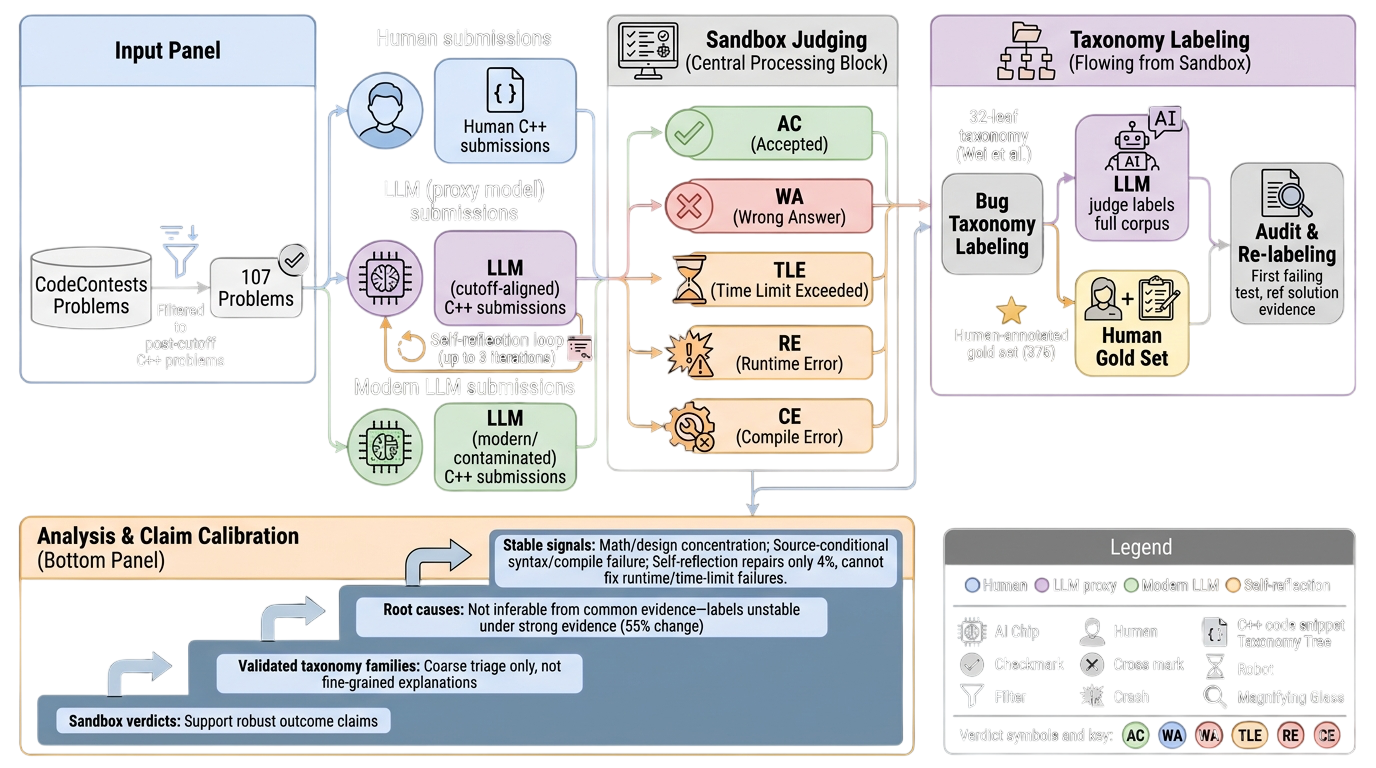
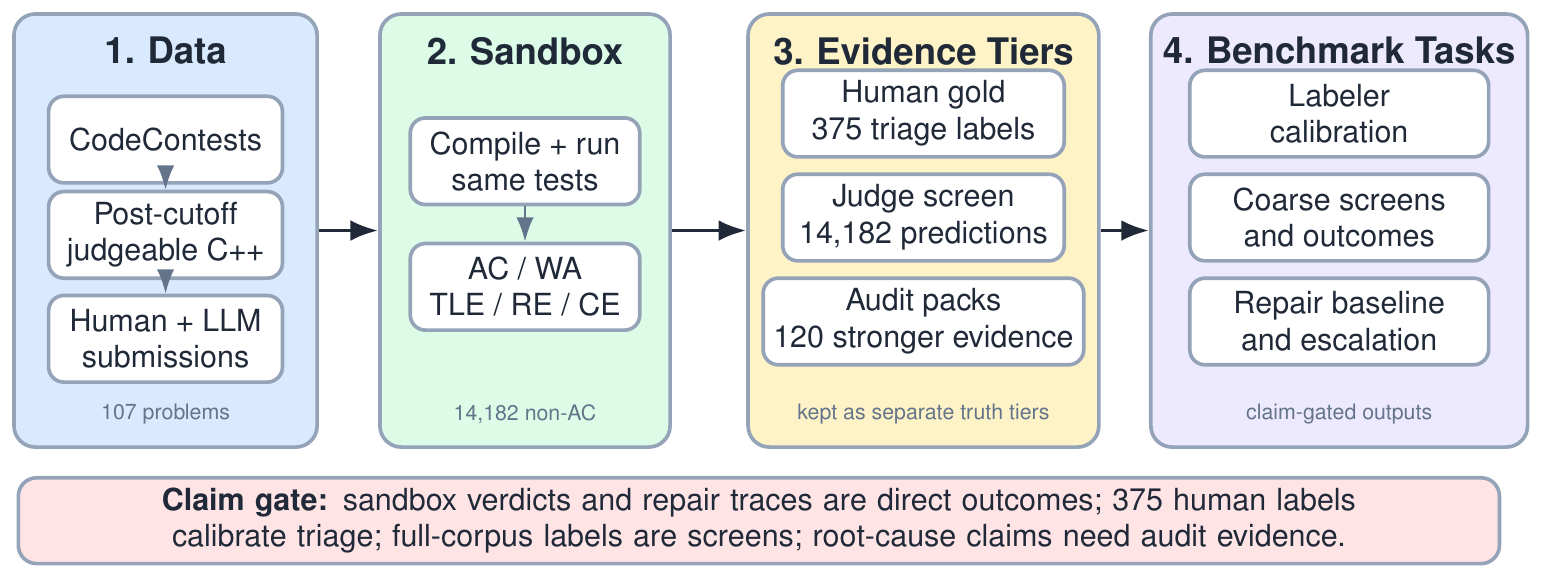
Simplify HuAIBench overview figure

diff --git a/paper/figs/overview_clean.tex b/paper/figs/overview_clean.tex
@@ -1,0 +1,70 @@
+\documentclass[tikz,border=4pt]{standalone}
+\usepackage[T1]{fontenc}
+\usepackage{helvet}
+\renewcommand{\familydefault}{\sfdefault}
+\usetikzlibrary{arrows.meta,positioning,shapes.geometric,fit}
+\definecolor{ink}{HTML}{1F2937}
+\definecolor{muted}{HTML}{64748B}
+\definecolor{line}{HTML}{94A3B8}
+\definecolor{blue}{HTML}{D9EAFE}
+\definecolor{green}{HTML}{DCFCE7}
+\definecolor{amber}{HTML}{FEF3C7}
+\definecolor{violet}{HTML}{EDE9FE}
+\definecolor{rose}{HTML}{FFE4E6}
+\definecolor{panel}{HTML}{F8FAFC}
+\begin{document}
+\begin{tikzpicture}[
+  font=\sffamily,
+  box/.style={rounded corners=5pt, draw=line, very thick, fill=white,
+    minimum height=1.0cm, align=center, text=ink},
+  panelbox/.style={rounded corners=7pt, draw=line, very thick, fill=panel,
+    minimum height=5.0cm, align=center, text=ink},
+  title/.style={font=\sffamily\bfseries\large, text=ink},
+  small/.style={font=\sffamily\small, text=ink},
+  tiny/.style={font=\sffamily\scriptsize, text=muted},
+  arrow/.style={-{Latex[length=3.2mm,width=2.4mm]}, very thick, draw=ink},
+  softarrow/.style={-{Latex[length=2.8mm,width=2.0mm]}, thick, draw=muted}
+]
+
+\node[panelbox, minimum width=3.5cm, fill=blue] (p1) at (0,0) {};
+\node[title] at (p1.north) [yshift=-0.45cm] {1. Data};
+\node[box, minimum width=2.7cm] (cc) at ([yshift=1.05cm]p1.center) {CodeContests};
+\node[box, minimum width=2.7cm] (filter) at ([yshift=-0.05cm]p1.center) {Post-cutoff\\judgeable C++};
+\node[box, minimum width=2.7cm] (subs) at ([yshift=-1.25cm]p1.center) {Human + LLM\\submissions};
+\draw[softarrow] (cc) -- (filter);
+\draw[softarrow] (filter) -- (subs);
+\node[tiny] at ([yshift=-2.12cm]p1.center) {107 problems};
+
+\node[panelbox, minimum width=3.35cm, fill=green] (p2) at (4.15,0) {};
+\node[title] at (p2.north) [yshift=-0.45cm] {2. Sandbox};
+\node[box, minimum width=2.65cm] (judge) at ([yshift=0.80cm]p2.center) {Compile + run\\same tests};
+\node[box, minimum width=2.65cm] (verdict) at ([yshift=-0.65cm]p2.center) {AC / WA\\TLE / RE / CE};
+\draw[softarrow] (judge) -- (verdict);
+\node[tiny] at ([yshift=-2.12cm]p2.center) {14,182 non-AC};
+
+\node[panelbox, minimum width=4.05cm, fill=amber] (p3) at (8.75,0) {};
+\node[title] at (p3.north) [yshift=-0.45cm] {3. Evidence Tiers};
+\node[box, minimum width=3.25cm] (gold) at ([yshift=1.35cm]p3.center) {Human gold\\375 triage labels};
+\node[box, minimum width=3.25cm] (screen) at ([yshift=0.15cm]p3.center) {Judge screen\\14,182 predictions};
+\node[box, minimum width=3.25cm] (audit) at ([yshift=-1.05cm]p3.center) {Audit packs\\120 stronger evidence};
+\node[tiny] at ([yshift=-2.12cm]p3.center) {kept as separate truth tiers};
+
+\node[panelbox, minimum width=4.35cm, fill=violet] (p4) at (13.55,0) {};
+\node[title] at (p4.north) [yshift=-0.45cm] {4. Benchmark Tasks};
+\node[box, minimum width=3.45cm] (cal) at ([yshift=1.35cm]p4.center) {Labeler\\calibration};
+\node[box, minimum width=3.45cm] (coarse) at ([yshift=0.15cm]p4.center) {Coarse screens\\and outcomes};
+\node[box, minimum width=3.45cm] (repair) at ([yshift=-1.05cm]p4.center) {Repair baseline\\and escalation};
+\node[tiny] at ([yshift=-2.12cm]p4.center) {claim-gated outputs};
+
+\draw[arrow] (p1.east) -- (p2.west);
+\draw[arrow] (p2.east) -- (p3.west);
+\draw[arrow] (p3.east) -- (p4.west);
+
+\node[box, fill=rose, rounded corners=6pt, minimum width=17.1cm, text width=16.55cm,
+  minimum height=0.95cm]
+  (gate) at (6.85,-3.35)
+  {\textbf{Claim gate:} sandbox verdicts and repair traces are direct outcomes;
+  375 human labels calibrate triage; full-corpus labels are screens; root-cause claims need audit evidence.};
+
+\end{tikzpicture}
+\end{document}